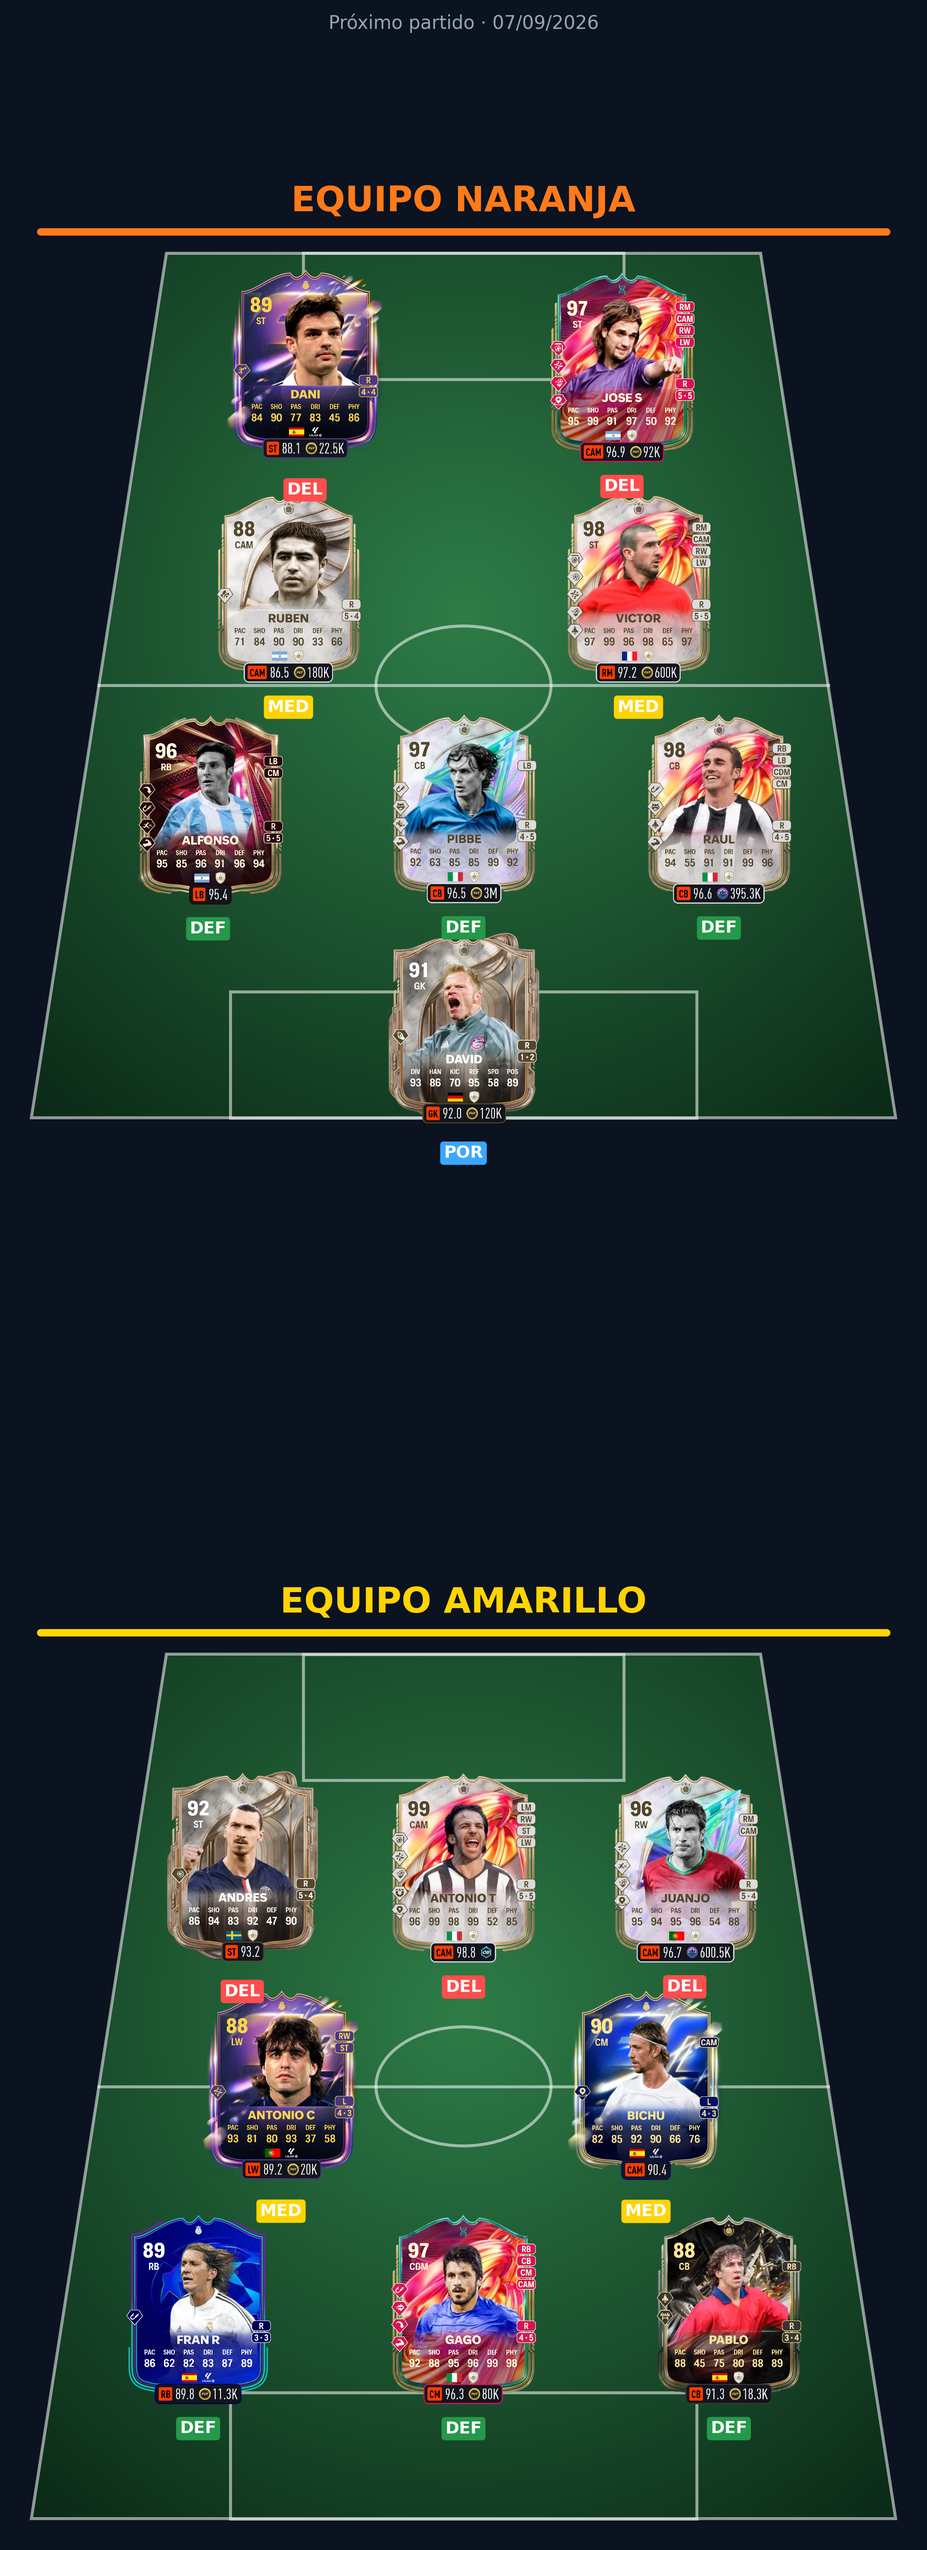
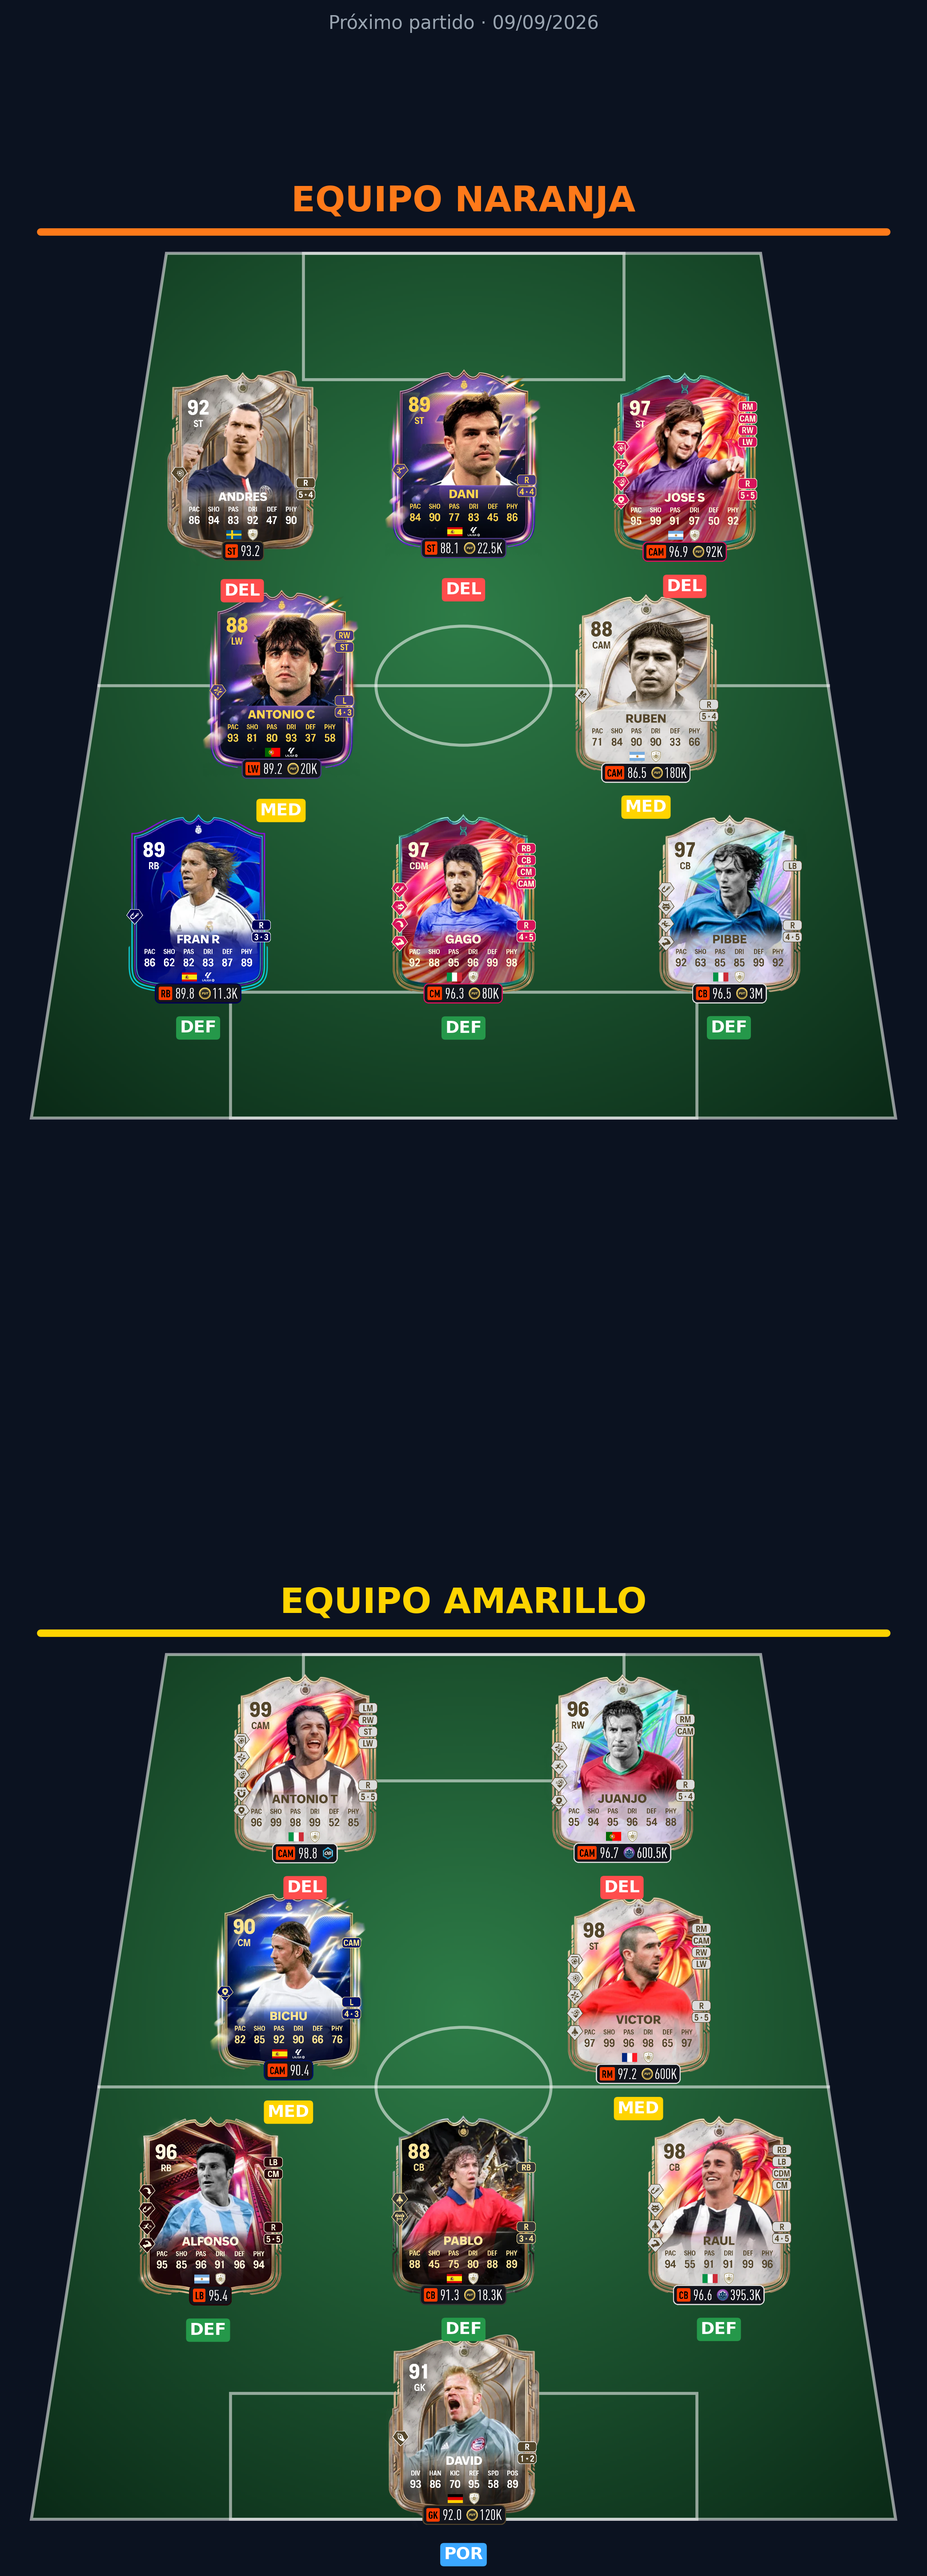
Actualizar resultados y estadisticas (06/09/2026 01:14)

diff --git a/index.html b/index.html
@@ -113,15 +113,25 @@
 <header>
   <img class="crest" src="img/escudo.png" alt="Escudo Peña QueSeFolme">
   <h1>Peña QueSeFolme</h1>
-  <p>Resultados y Estadísticas · Actualizado el 06/09/2026 01:02</p>
+  <p>Resultados y Estadísticas · Actualizado el 06/09/2026 01:14</p>
 </header>
 <nav>
-  
+  <a href="#proximo">🔜 Próximo partido</a>
   <a href="#clasificacion">🏆 Clasificación</a>
   <a href="#goleadores">⚽ Goleadores</a>
   <a href="#partidos">📅 Partidos</a>
 </nav>
 <main>
+  <section id="proximo">
+    <h2>🔜 Próximo partido</h2>
+    
+    <p class="muted" style="text-align:center;">09/09/2026</p>
+    <img src="img/proximo_partido.png" alt="Alineación del 09/09/2026" loading="lazy">
+    <div class="scorers-row" style="margin-top:18px;">
+      <div><h3 style="color:var(--naranja);">Naranja</h3><ul class="scorers"><li>Andres <span class="muted">(DEL)</span></li><li>AntonioC <span class="muted">(MED)</span></li><li>Dani <span class="muted">(DEL)</span></li><li>FranR <span class="muted">(DEF)</span></li><li>Gago <span class="muted">(DEF)</span></li><li>JoseS <span class="muted">(DEL)</span></li><li>Pibbe <span class="muted">(DEF)</span></li><li>Ruben <span class="muted">(MED)</span></li></ul></div>
+      <div><h3 style="color:var(--amarillo);">Amarillo</h3><ul class="scorers"><li>Alfonso <span class="muted">(DEF)</span></li><li>AntonioT <span class="muted">(DEL)</span></li><li>Bichu <span class="muted">(MED)</span></li><li>David <span class="muted">(POR)</span></li><li>Juanjo <span class="muted">(DEL)</span></li><li>Pablo <span class="muted">(DEF)</span></li><li>Raul <span class="muted">(DEF)</span></li><li>Victor <span class="muted">(MED)</span></li></ul></div>
+    </div>
+  </section>
   <section id="clasificacion">
     <h2>🏆 Clasificación general</h2>
     <p class="muted">Todavía no hay resultados registrados.</p>
